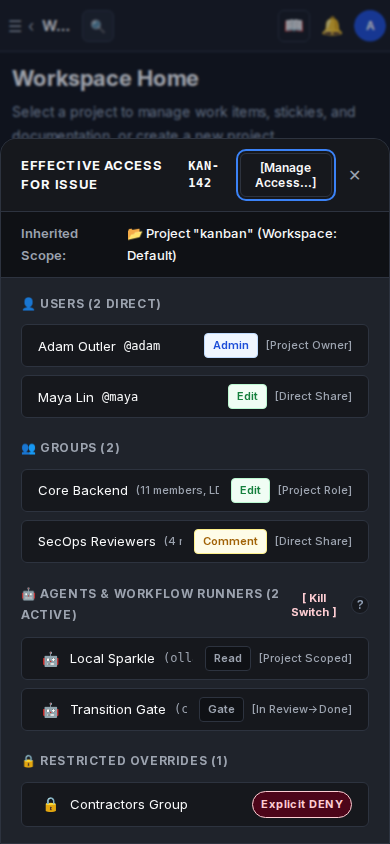
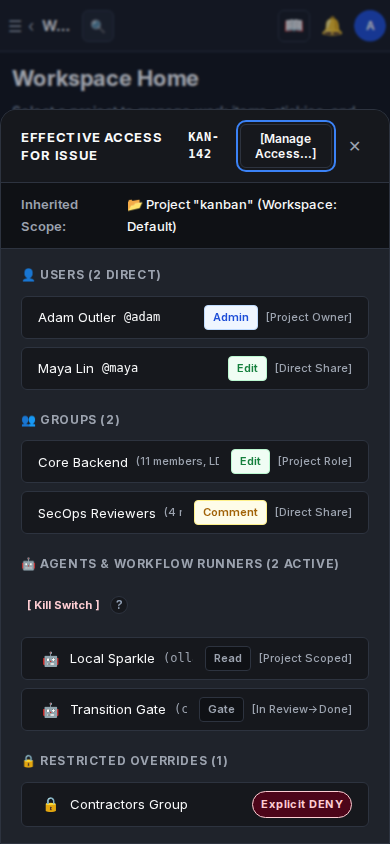
fix(access): [KAN-488] mobile kill-switch whitespace nowrap, confirmation screenshots, and visible popover capture

Changed region(s): [[0.0308, 0.1232, 0.9231, 0.7393], [0.7385, 0.7085, 0.8615, 0.7393], [0.9846, 0.154, 1.0, 0.1848]]

diff --git a/kanban/web/src/features/access/AccessInspectorPopover.css b/kanban/web/src/features/access/AccessInspectorPopover.css
@@ -158,6 +158,8 @@
   text-transform: uppercase;
   letter-spacing: 0.05em;
   margin-bottom: 2px;
+  gap: var(--space-2, 8px);
+  flex-wrap: wrap;
 }
 
 .access-inspector__section-title {
@@ -321,6 +323,7 @@
   cursor: pointer;
   padding: 2px 6px;
   border-radius: 4px;
+  white-space: nowrap;
 }
 
 .access-inspector__kill-switch-btn:hover:not(:disabled) {
@@ -336,6 +339,7 @@
   display: inline-flex;
   align-items: center;
   gap: var(--space-1, 4px);
+  flex-shrink: 0;
 }
 
 .access-inspector__kill-switch-prompt-row {
